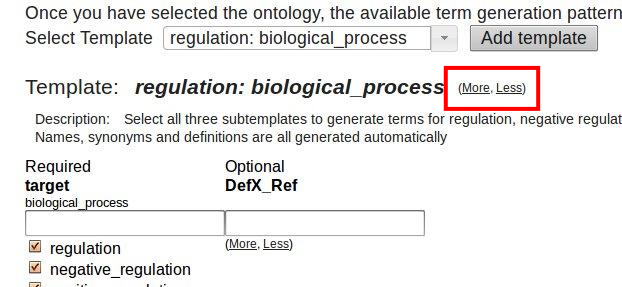
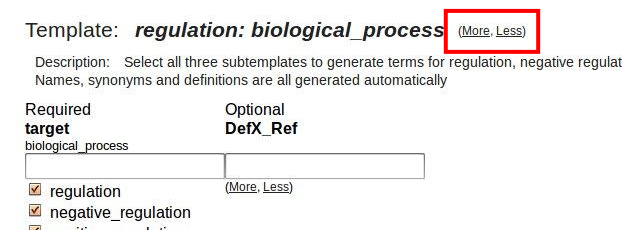
replace selector for templates with tree, if there are more than 15 templates, update GO help
Former-commit-id: 3551059ff3ad819897771ccb0cca0e3b29332370

Changed region(s): [[0.0305, 0.0, 1.0, 1.0]]

diff --git a/TermGenie/WebApplications/TermGenieJQuery/src/main/webapp/js/termgenie.js b/TermGenie/WebApplications/TermGenieJQuery/src/main/webapp/js/termgenie.js
@@ -233,8 +233,7 @@ function termgenie(){
 	 */
 	function createTemplateSelector(ontology) {
 		// create general layout
-		var termselect = c_div('div-template-selector', 
-				c_span('select-template-header','Select Template'))+
+		var termselect = c_div('div-template-selector', '')+
 				c_div('div-all-template-parameters','');
 		
 		// get intented dom element
@@ -381,37 +380,48 @@ function termgenie(){
 	 */
 	function createTemplateSelectorMenu(ontology, templates) {
 		var parent = jQuery('#div-template-selector');
+		var renderTreeOnly = templates.length > 15;
 		
-		// create layout
-		parent.append('<select id="select-add-template-select"></select>'+
-				c_button('button-add-template-select', 'Add template')+
-				c_button('button-view-templates-in-tree', 'View in Tree'));
+		if (renderTreeOnly === false) {
 		
-		// select dom element
-		var domElement = jQuery('#select-add-template-select');
+			// create layout
+			parent.append('<span class="select-template-header">Select Template</span>'
+					+'<select id="select-add-template-select"></select>'+
+					c_button('button-add-template-select', 'Add template')+
+					c_button('button-view-templates-in-tree', 'View in Tree'));
+		
+			// select dom element
+			var domElement = jQuery('#select-add-template-select');
+	
+			// foreach template create a menu entry, use index for retrieval
+			jQuery.each(templates, function(intIndex, objValue) {
+				var templateName = getTemplateName(objValue);
+				var option = jQuery('<option />');
+				option.text(templateName);
+				option.val(intIndex);
+				domElement.append(option);
+			});
+			
+			// make it a nice combo box, including an additional description of the template
+			domElement.extendedcombobox({
+				minWidth: 450,
+				minHeight: 250,
+				createInfoDiv: function() {
+					return '<div class="term-description-content"></div>';
+				},
+				createInfoDivContent: function(item) {
+					var template = templates[item.value];
+					return renderTemplateDesc(template);
+				}
+			});
+			
+			// click handler for adding a selected template
+			jQuery('#button-add-template-select').click(function (){
+				var intIndex = jQuery('#select-add-template-select').val();
+				termTemplateWidgetList.addTemplate(templates[intIndex]);
+			});
+		}
 
-		// foreach template create a menu entry, use index for retrieval
-		jQuery.each(templates, function(intIndex, objValue) {
-			var templateName = getTemplateName(objValue);
-			var option = jQuery('<option />');
-			option.text(templateName);
-			option.val(intIndex);
-			domElement.append(option);
-		});
-		
-		// make it a nice combo box, including an additional description of the template
-		domElement.extendedcombobox({
-			minWidth: 450,
-			minHeight: 250,
-			createInfoDiv: function() {
-				return '<div class="term-description-content"></div>';
-			},
-			createInfoDivContent: function(item) {
-				var template = templates[item.value];
-				return renderTemplateDesc(template);
-			}
-		});
-		
 		function renderTemplateDesc(template, styleClass) {
 			var layout;
 			if (!styleClass) {
@@ -433,12 +443,6 @@ function termgenie(){
 			layout += '</table>';
 			return layout;
 		}
-		
-		// click handler for adding a selected template
-		jQuery('#button-add-template-select').click(function (){
-			var intIndex = jQuery('#select-add-template-select').val();
-			termTemplateWidgetList.addTemplate(templates[intIndex]);
-		});
 		
 		function TemplateTreeWidget(templates) {
 			// create template tree from the categories in the templates
@@ -602,6 +606,7 @@ function termgenie(){
 					var treeClearSearchButton = jQuery('<button type="button" >Clear</button>');
 					treeClearSearchButton.click(function(){
 						templateTreeDiv.jstree('clear_search');
+						treeSearchInputField.val('');
 					});
 					
 					var treeSearchDiv = jQuery('<div></div>');
@@ -619,36 +624,53 @@ function termgenie(){
 		
 		var templateTreeWidgetInstance = new TemplateTreeWidget(templates);
 		
-		// create dialog
-		var templateTreeDialog = jQuery('<div title="Available TermGenieTemplates"></div>');
-		templateTreeWidgetInstance.appendTo(templateTreeDialog);
-		templateTreeDialog.dialog({
-			autoOpen: false,
-			minWidth: 500,
-			minHeight: 450,
-			modal: true,
-			buttons: {
-				"Add template": function() {
-					var currentSelection = templateTreeWidgetInstance.getSelected();
-					if (currentSelection !== null) {
-						
-						// add the current selection from the tree
-						termTemplateWidgetList.addTemplate(currentSelection);
-						
-						// only exit dialog, if the there was a selection
+		if (renderTreeOnly === false) {
+			// create dialog
+			var templateTreeDialog = jQuery('<div title="Available TermGenieTemplates"></div>');
+			templateTreeWidgetInstance.appendTo(templateTreeDialog);
+			templateTreeDialog.dialog({
+				autoOpen: false,
+				minWidth: 500,
+				minHeight: 450,
+				modal: true,
+				buttons: {
+					"Add template": function() {
+						var currentSelection = templateTreeWidgetInstance.getSelected();
+						if (currentSelection !== null) {
+							
+							// add the current selection from the tree
+							termTemplateWidgetList.addTemplate(currentSelection);
+							
+							// only exit dialog, if the there was a selection
+							$(this).dialog( "close" );
+						}
+					},
+					Cancel: function() {
 						$(this).dialog( "close" );
 					}
-				},
-				Cancel: function() {
-					$(this).dialog( "close" );
 				}
-			}
-		});
-		
-		// click handler for 'view in tree' button
-		jQuery('#button-view-templates-in-tree').click(function (){
-			templateTreeDialog.dialog( "open" );
-		});
+			});
+			
+			// click handler for 'view in tree' button
+			jQuery('#button-view-templates-in-tree').click(function (){
+				templateTreeDialog.dialog( "open" );
+			});
+		}
+		else {
+			// create a tree only selection
+			var templateTreeDiv = jQuery('<div></div>');
+			templateTreeWidgetInstance.appendTo(templateTreeDiv);
+			var treeAddButton = jQuery('<button type="button" style="margin-top:10px;margin-left:2px">Add template</button>');
+			treeAddButton.click(function (){
+				var currentSelection = templateTreeWidgetInstance.getSelected();
+				if (currentSelection !== null) {
+					// add the current selection from the tree
+					termTemplateWidgetList.addTemplate(currentSelection);
+				}
+			});
+			treeAddButton.appendTo(templateTreeDiv);
+			parent.append(templateTreeDiv);
+		}
 	}
 	
 	/**

diff --git a/TermGenie/WebApplications/TermGenieWebAppGO/src/main/webapp/help/index.html b/TermGenie/WebApplications/TermGenieWebAppGO/src/main/webapp/help/index.html
@@ -47,20 +47,15 @@ grant you permission to submit term requests.</li>
 <div class="screen-shot"><img src="images/image_004.png" alt="BrowserID login - screen shot"/></div>
 </li>
 
-<li>This will take you back to the TermGenie front
-page at the step 2 Template stage.
-<div class="screen-shot"><img src="images/image_005.png" alt="TermGenie template selection overview - screen shot"/></div>
+<li>This will take you back to the TermGenie front page at the step 2 Template stage.
 </li>
 
-<li>In the drop down template menu select the type of term you are
-seeking to create
-<div class="screen-shot"><img src="images/image_006.png" alt="TermGenie template selection - screen shot"/></div>
+<li>From the tree, select the type of term you are seeking to create. It is possible to search for templates in the search box.
 </li>
 
 <li>You can add more than one of the same or a different template by 
 clicking ‘Add template’ allowing the creation of many
 new terms at the same time.
-<div class="screen-shot"><img src="images/image_007a.png" alt="TermGenie multiple template selection - screen shot"/></div>
 
 <div class="additional-remark"><b>NB:</b> To remove templates added in error, just click on the
 'Less' button:

diff --git a/TermGenie/WebApplications/TermGenieJQuery/src/main/webapp/TermGenie.html b/TermGenie/WebApplications/TermGenieJQuery/src/main/webapp/TermGenie.html
@@ -42,8 +42,7 @@
 			<h3><a class="myClickable"><b>Step 2:</b> Templates <span id="span-step2-additional-header"></span></a></h3>
 			<div>
 				<span class="instructions">Once you have selected the
-						ontology, the available term generation patterns can be selected
-						from a menu.</span>
+						ontology, the available term generation patterns can be selected.</span>
 				<div id="div-select-templates-and-parameters"></div>
 				<div class="div-submit-button">
 					<span>After selecting and filling templates, click on 

diff --git a/TermGenie/WebApplications/TermGenieWebAppGO/src/main/webapp/TermGenie.html b/TermGenie/WebApplications/TermGenieWebAppGO/src/main/webapp/TermGenie.html
@@ -46,8 +46,7 @@
 			<h3><a class="myClickable"><b>Step 2:</b> Templates <span id="span-step2-additional-header"></span></a></h3>
 			<div>
 				<span class="instructions">Once you have selected the
-						ontology, the available term generation patterns can be selected
-						from a menu.</span>
+						ontology, the available term generation patterns can be selected.</span>
 				<div id="div-select-templates-and-parameters"></div>
 				<div class="div-submit-button">
 					<span>After selecting and filling templates, click on 
